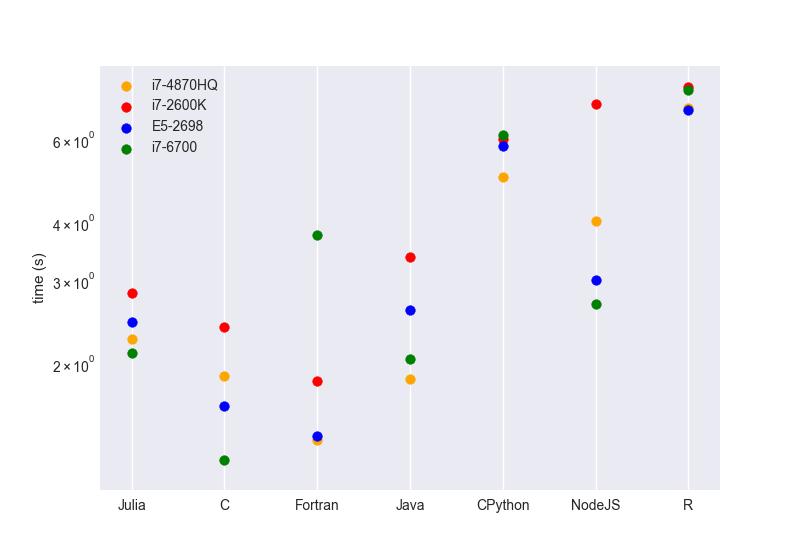
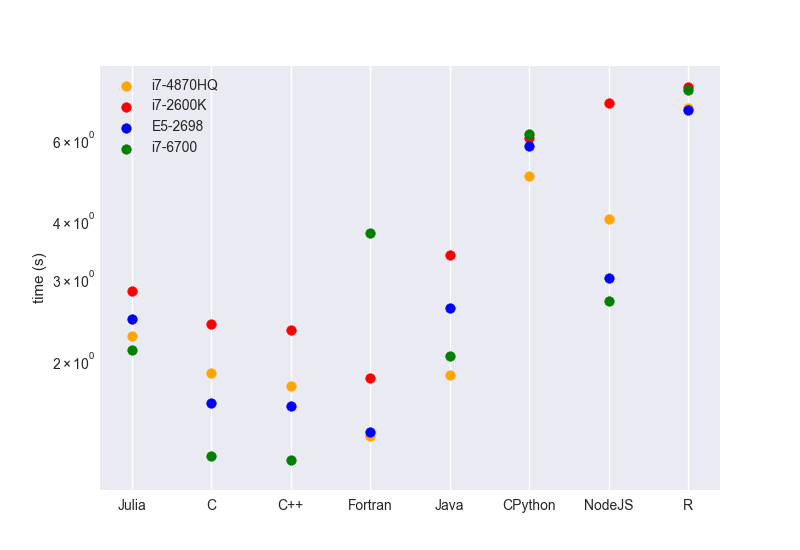
update

diff --git a/images/plot.py b/images/plot.py
@@ -16,9 +16,9 @@ seaborn.set()
 if __name__ == "__main__":
     xticks = ['Julia', 'C', 'C++', 'Fortran', 'Java', 'CPython', 'NodeJS', 'R']
     i7_4870HQ_times = np.log2(np.array([4.780, 3.693, 3.389, 2.591, 3.628, 32.015, 16.445, 130.351]))
-    i7_2600_times = np.log2(np.array([7.093, 5.266, 3.569, 10.458, 65.815, 144.833, 224.067]))
-    e5_times = np.log2(np.array([5.505, 3.079, 2.650, 6.076, 56.443, 8.131, 124.805]))
-    i7_6700_times = np.log2(np.array([4.308, 2.370, 13.610, 4.122, 71.302, 6.452, 202.943]))
+    i7_2600_times = np.log2(np.array([7.093, 5.266, 5.010, 3.569, 10.458, 65.815, 144.833, 224.067]))
+    e5_times = np.log2(np.array([5.505, 3.079, 3.033, 2.650, 6.076, 56.443, 8.131, 124.805]))
+    i7_6700_times = np.log2(np.array([4.308, 2.370, 2.330, 13.610, 4.122, 71.302, 6.452, 202.943]))
     n = len(xticks)
     ax = plt.axes()
     plt.scatter(np.arange(n), i7_4870HQ_times, color="orange", label="i7-4870HQ")
